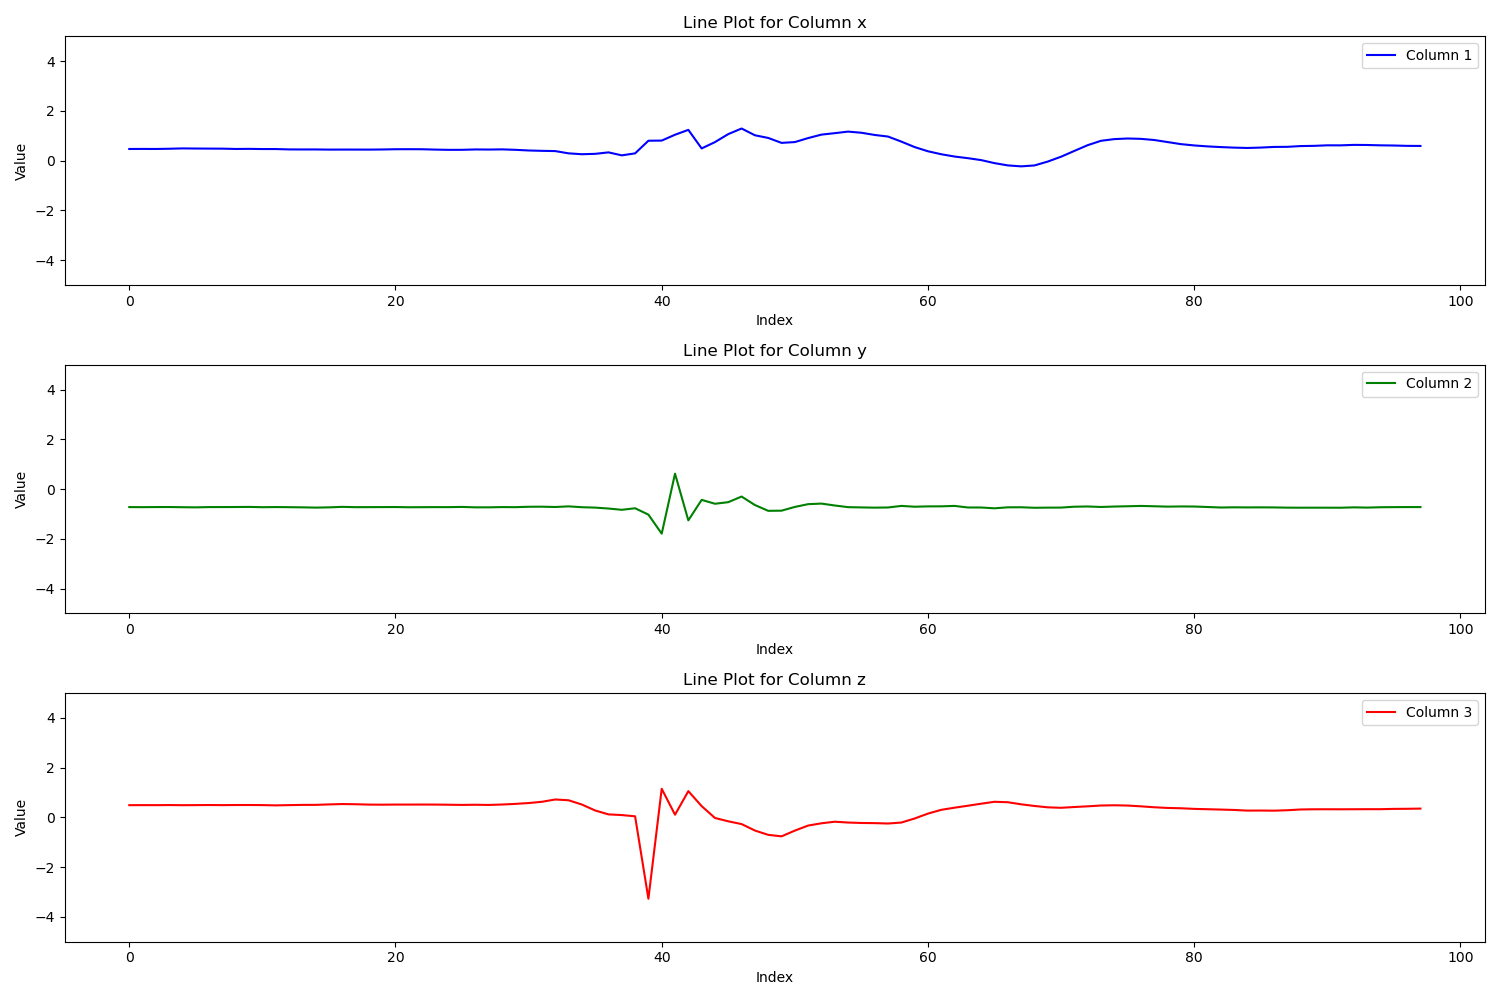
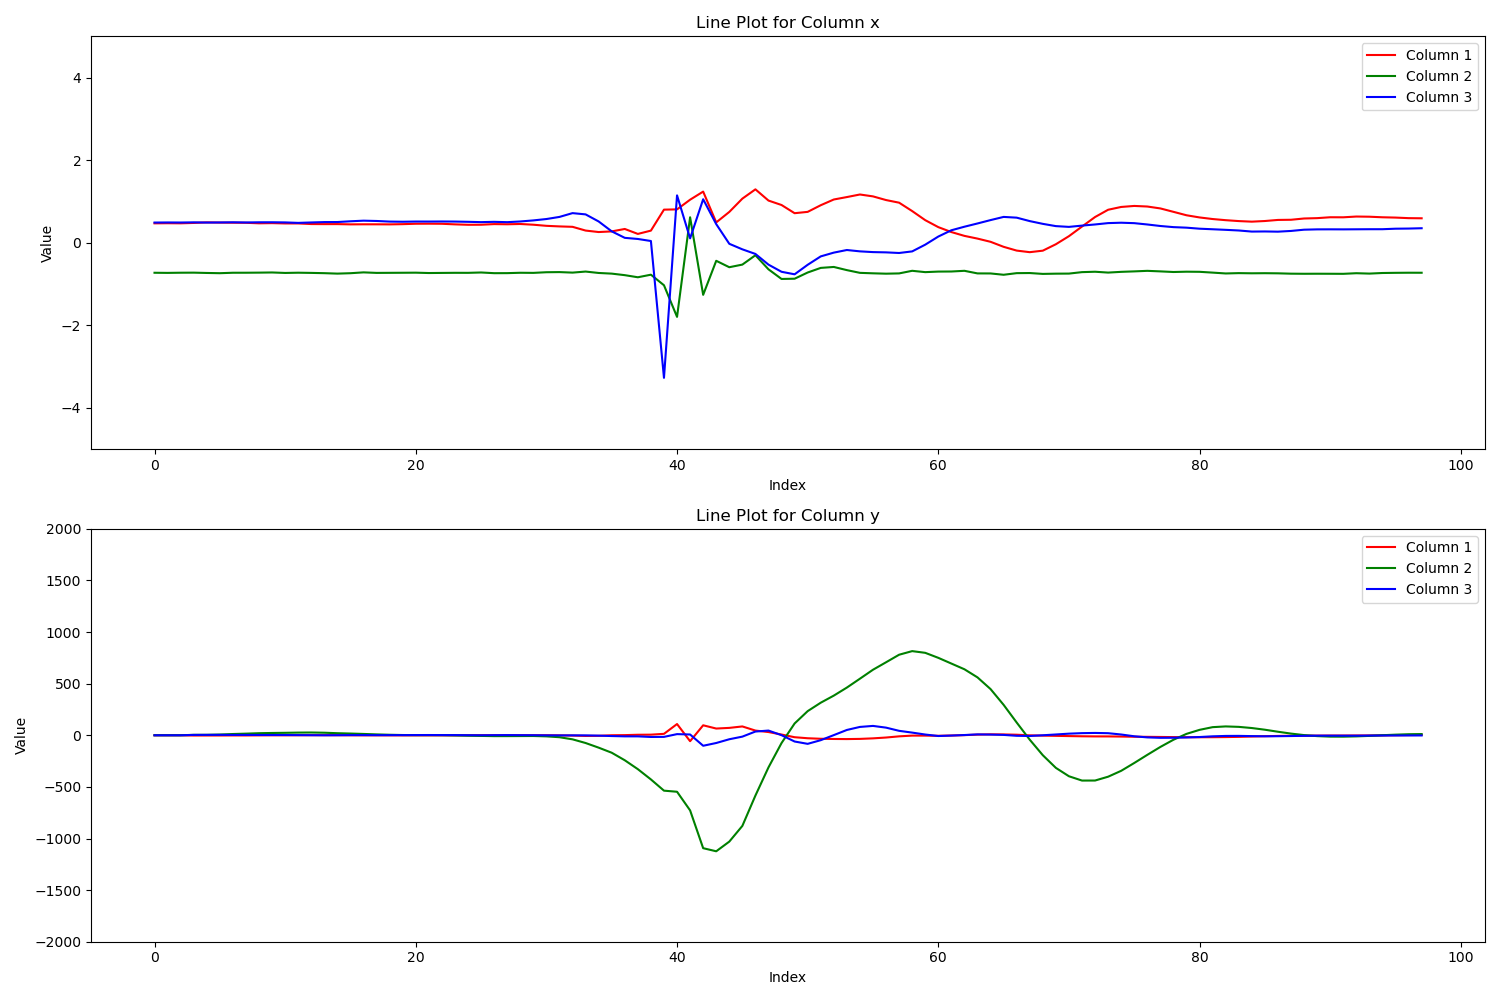
new_data

diff --git a/src/data_exploration_6d.py b/src/data_exploration_6d.py
@@ -1,0 +1,50 @@
+import pandas as pd
+import matplotlib.pyplot as plt
+
+n = 'yc_01_001'
+
+# Load the CSV file
+file_path = './data/'+ n +'.csv'
+data = pd.read_csv(file_path)
+
+# Display the dataframe to understand its structure
+data.head()
+
+# Extract columns
+col1 = data.iloc[:, 0]
+col2 = data.iloc[:, 1]
+col3 = data.iloc[:, 2]
+col4 = data.iloc[:, 3]
+col5 = data.iloc[:, 4]
+col6 = data.iloc[:, 5]
+
+# Plot the data
+plt.figure(figsize=(15, 10))
+
+# Plot for the first column
+plt.subplot(2, 1, 1)
+plt.plot(col1, label='Column 1', color='r')
+plt.plot(col2, label='Column 2', color='g')
+plt.plot(col3, label='Column 3', color='b')
+plt.title('Line Plot for Column x')
+plt.xlabel('Index')
+plt.ylabel('Value')
+plt.ylim(-5, 5)
+plt.legend()
+
+# Plot for the second column
+plt.subplot(2, 1, 2)
+plt.plot(col4, label='Column 1', color='r')
+plt.plot(col5, label='Column 2', color='g')
+plt.plot(col6, label='Column 3', color='b')
+plt.title('Line Plot for Column y')
+plt.xlabel('Index')
+plt.ylabel('Value')
+plt.ylim(-2000, 2000)
+plt.legend()
+
+
+# Show the plots
+plt.tight_layout()
+plt.savefig('./img/'+ n +'.png')
+plt.show()

diff --git a/src/cut_data_and_plot.py b/src/cut_data_and_plot.py
@@ -17,7 +17,6 @@ col3 = data.iloc[:, 2]
 col4 = data.iloc[:, 3]
 col5 = data.iloc[:, 4]
 col6 = data.iloc[:, 5]
-print(col6)
 
 # Plot the data
 plt.figure(figsize=(15, 10))
